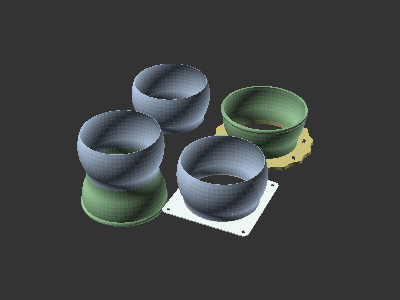
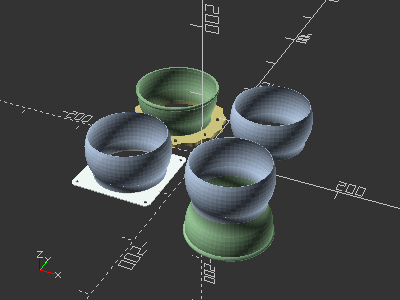
Refactor variable handling in modular hose, adjust demo

diff --git a/site_scons/site_init.py b/site_scons/site_init.py
@@ -141,6 +141,7 @@ class ModelBuilder:
                 "delay": images_config.get("delay", 75),
                 "imgsize": images_config.get("imgsize", "1200,900"),
                 "model": images_config["model"],
+                "view_options": images_config.get("view_options", ""),
                 "args": image_args,
             }
         return data
@@ -268,6 +269,10 @@ class ModelBuilder:
             if image_data.get("camera"):
                 render_args = [
                     f"--camera={image_data['camera']}"
+                ] + render_args
+            if image_data.get("view_options"):
+                render_args = [
+                    f"--view={image_data['view_options']}"
                 ] + render_args
             run(
                 [
